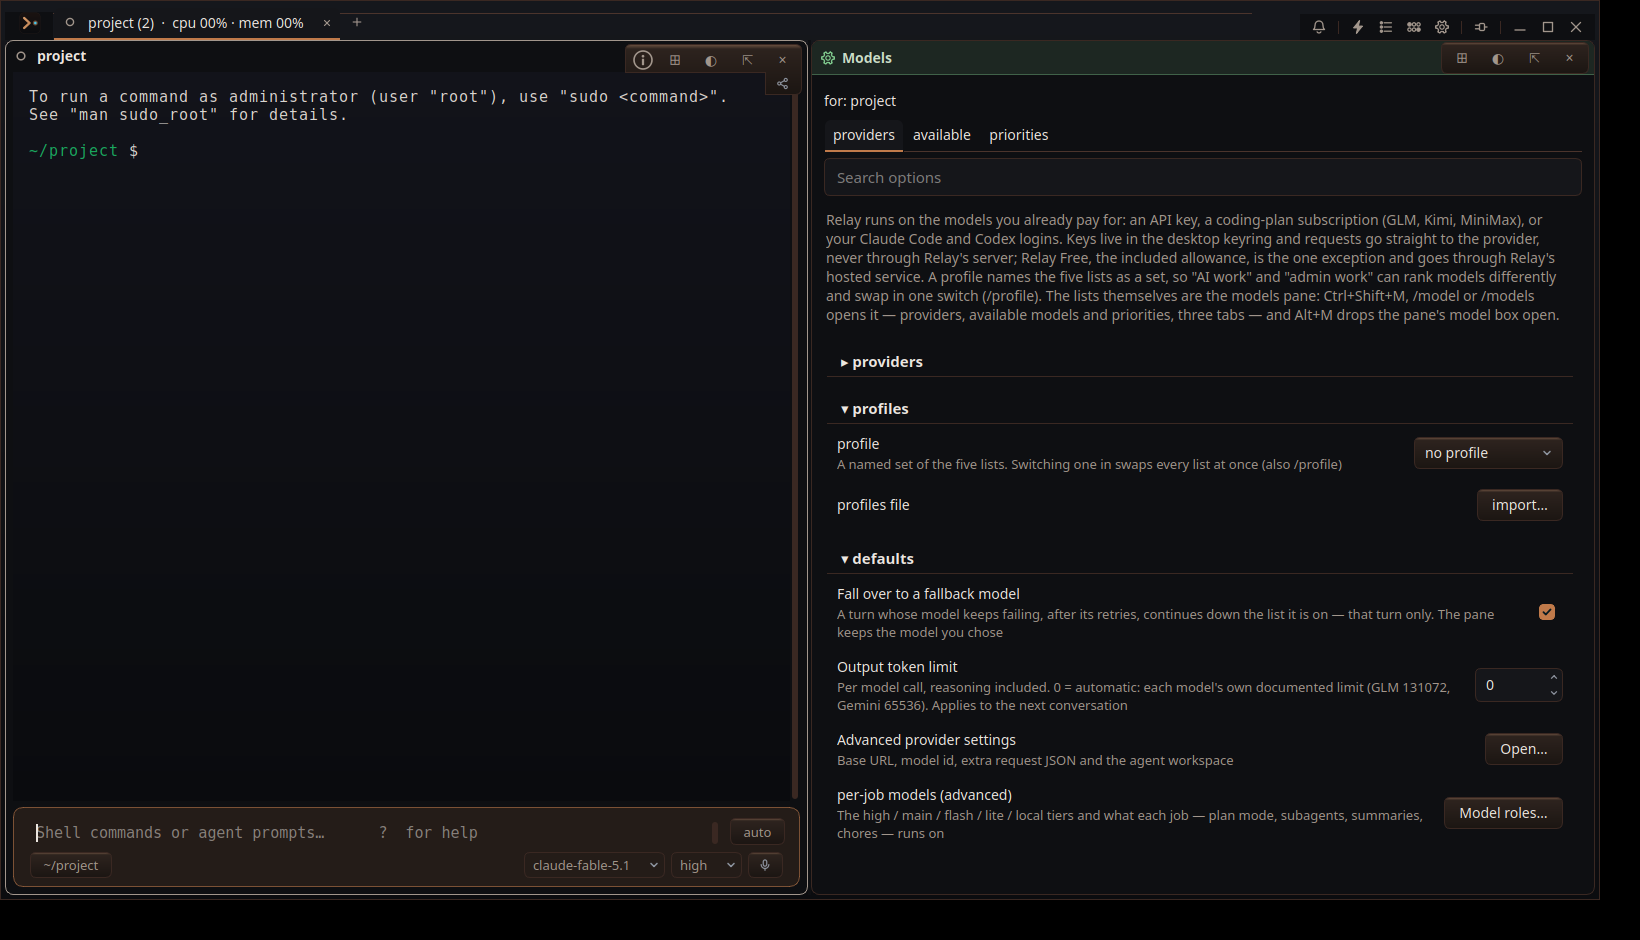
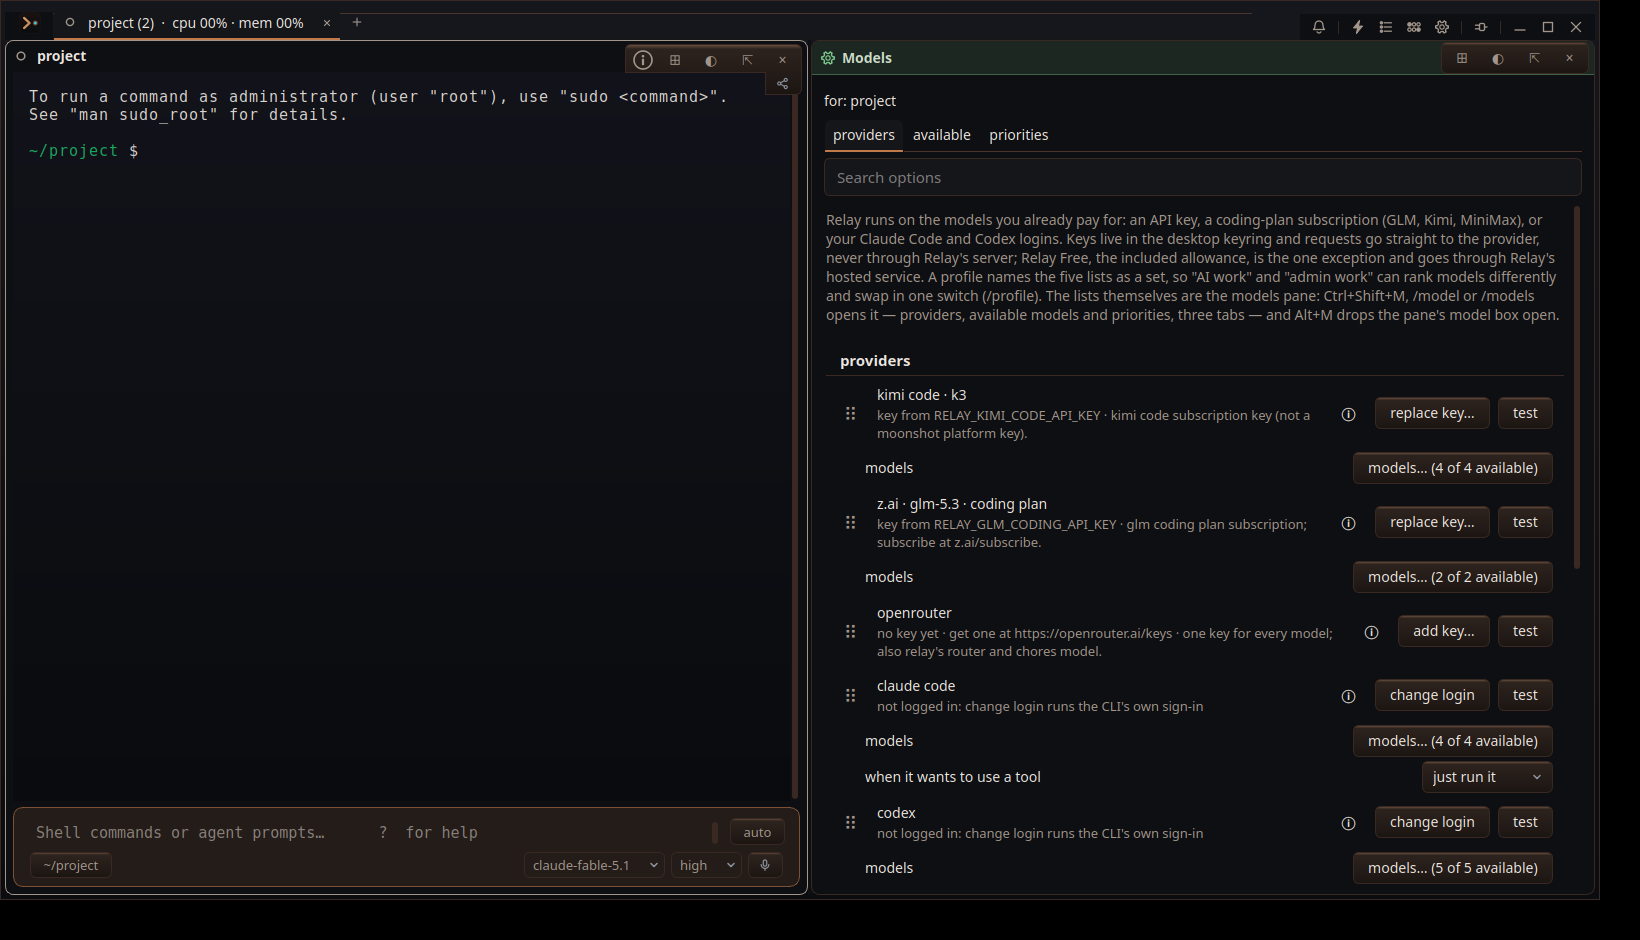
A saved models pane took its whole tab with it (#MDL1)
Driving the quit-and-reopen round trip the models pane's evidence was missing found a fault worse
than the one it was looking for. `relay::windowstate::isUsableNode` is the gate every saved node
passes on the way back, and it did not know `"models"`; an unknown node makes its whole **split**
unusable and the tab is dropped with it, so a tab holding a terminal beside a models pane came back
as **nothing** — Relay opened a bare window in the launch directory and the terminal's scrollback,
directory and conversation went with the tab. One line, and tests/windowstate_test.cpp asserts both
the node and the split that holds it.

Two more the same run found:

- **A restored pane had no "fill from defaults" buttons.** The picker makes them in its constructor
  from `Context::fillFromDefaults`, and a pane restored with a layout is pointed at a terminal
  whose worker has not answered `presets` yet, so the action was absent then and a later re-read
  does not rebuild the widget. `ModelsPane::setTarget` treats gaining or losing that action as a
  re-target now.
- **The providers group opened folded on the pane's providers tab**, so a first-run window showed
  the blurb, the profiles and the defaults and not the one thing step 1 is about. The fold is
  `options/collapsed/heading:providers` and defaults to folded once any provider is set up — right
  for the Options page, wrong for a tab whose whole subject is providers. In the pane the group is
[…]

Changed region(s): [[0.4976, 0.216, 0.964, 0.9564], [0.6841, 0.4936, 0.7463, 0.5245]]

diff --git a/src/RelayWindow.h b/src/RelayWindow.h
@@ -2484,15 +2484,22 @@ private:
         {
             // Folds by default once a provider is set up (owner, 2026-09-20): from then on the
             // page opens on the models, and the keys are one click away.
+            //
+            // **Not in the models pane** (card #MDL1 t:a11). There the providers rows are the whole
+            // of a tab called "providers", and a fold — remembered under the same
+            // `options/collapsed/heading:providers` key, so one set up on Options travelled here —
+            // left a first-run window showing the blurb, the profiles and the defaults and not the
+            // one thing step 1 is about. A first run opens on this tab precisely because there is a
+            // key to add, so the group is drawn open and has no fold control at all.
             relay::SettingRow head = headingRow(QStringLiteral("providers"));
-            head.collapsible = true;
+            head.collapsible = !inModelsPane;
             bool anySetUp = false;
             for (const auto &value : presets) {
                 const QJsonObject preset = value.toObject();
                 anySetUp = anySetUp || preset.value(QStringLiteral("has_stored_key")).toBool() || preset.value(QStringLiteral("custom")).toBool()
                     || (preset.value(QStringLiteral("harness")).toBool() && preset.value(QStringLiteral("logged_in")).toBool());
             }
-            head.collapsedByDefault = anySetUp;
+            head.collapsedByDefault = anySetUp && !inModelsPane;
             models.rows << head;
         }
         if (presets.isEmpty()) {

diff --git a/docs/qa_evidence/2026-09-21-models-pane/check-layout.py b/docs/qa_evidence/2026-09-21-models-pane/check-layout.py
@@ -1,0 +1,41 @@
+#!/usr/bin/env python3
+"""What the shots of the round trip cannot say on their own (card #MDL1 t:a11).
+
+Reads the layout Relay wrote at quit and asserts the three things the restore has to get right:
+there is exactly **one** models pane in it, it carries the **tab** it was left on, and it sits
+beside a **terminal pane** — which is the pane `RelayWindow::linkRestoredModelsPane` will serve,
+since nothing about the served pane is saved.
+"""
+import json
+import sys
+
+state = json.load(open(sys.argv[1], encoding="utf-8"))
+found = []
+
+
+def walk(node, siblings):
+    if "split" in node:
+        children = node.get("children", [])
+        for child in children:
+            walk(child, children)
+        return
+    for key in node:
+        if key == "models":
+            found.append((node["models"], sorted({k for s in siblings for k in s if k != "models"})))
+
+
+for window in state.get("windows", []):
+    for tab in window.get("tabs", []):
+        node = tab.get("node", tab)
+        walk(node, [node])
+
+print("models nodes in the saved layout:", len(found))
+for node, neighbours in found:
+    print("  node:   ", json.dumps(node, sort_keys=True))
+    print("  beside: ", neighbours)
+
+assert len(found) == 1, "expected exactly one models pane in the saved layout"
+node, neighbours = found[0]
+assert node.get("tab") == "available", f'the tab it was left on is not saved: {node.get("tab")!r}'
+assert "pane" in neighbours, "the models pane is not beside a terminal pane"
+print("OK: one models node, tab=available, beside a terminal pane")

diff --git a/src/ModelsPane.cpp b/src/ModelsPane.cpp
@@ -126,6 +126,7 @@ void ModelsPane::buildPicker() {
     };
     m_picker->onListsChanged = [this] { if (m_target.listsChanged) m_target.listsChanged(); };
     m_picker->openModelsPage = [this] { showTab(providersTab()); };
+    m_pickerHasFill = bool(m_target.fillFromDefaults);
     m_picker->setHosted(true);
     m_picker->installEventFilter(this);
     m_picker->filter()->installEventFilter(this);
@@ -135,7 +136,12 @@ void ModelsPane::buildPicker() {
 }
 
 void ModelsPane::setTarget(const Target &target) {
-    const bool samePane = m_picker && !target.token.isEmpty() && target.token == m_target.token;
+    // A re-read keeps the picker; a re-target rebuilds it. So does a target that has gained or
+    // lost "fill from defaults", because those two buttons exist only if the Context carried the
+    // action when the widget was made — a models pane restored with a layout is pointed at a pane
+    // whose worker has not answered `presets` yet, so it never had them until now.
+    const bool samePane = m_picker && !target.token.isEmpty() && target.token == m_target.token
+                          && bool(target.fillFromDefaults) == m_pickerHasFill;
     const QString wantTier = target.tier.isEmpty() ? m_classTab : target.tier;
     m_target = target;
     // The served pane's mode picks the class tab when it *becomes* the served pane; a re-read of

diff --git a/tests/modelspane_test.cpp b/tests/modelspane_test.cpp
@@ -240,6 +240,24 @@ private Q_SLOTS:
         QCOMPARE(pane.tier(), QStringLiteral("flash"));
     }
 
+    // "fill from defaults" is two buttons the picker makes in its constructor, so a target that
+    // gains the action has to rebuild it rather than re-read. A models pane restored with a saved
+    // layout is exactly that case: it is pointed at a pane whose worker has not answered yet.
+    void gainingFillFromDefaultsBringsItsButtons() {
+        Served served;
+        ModelsPane pane(providerSections());
+        ModelsPane::Target early = targetFor(&served);   // no worker answer yet: no action
+        pane.setTarget(early);
+        pane.showTab(ModelsPane::prioritiesTab());
+        QVERIFY(pane.picker()->defaultsButton(false) == nullptr);
+        ModelsPane::Target ready = targetFor(&served);
+        ready.fillFromDefaults = [](bool) { return true; };
+        pane.setTarget(ready);
+        QVERIFY(pane.picker()->defaultsButton(false) != nullptr);
+        QVERIFY(pane.picker()->defaultsButton(true) != nullptr);
+        QCOMPARE(pane.currentTab(), QStringLiteral("priorities"));
+    }
+
     // A pane's catalog arrives late: with no providers there is nothing to draw until the worker
     // answers `presets`, and a re-read of the same pane has to bring the new rows with it.
     void aLateCatalogReachesTheRowsWithoutLosingTheTab() {

diff --git a/tests/windowstate_test.cpp b/tests/windowstate_test.cpp
@@ -195,6 +195,14 @@ private slots:
         QVERIFY(isUsableNode(QJsonObject{{"testsuites", QJsonObject{{"cwd", "/repo"}}}}));
         QVERIFY(isUsableNode(QJsonObject{{"testsuites", QJsonObject{}}}));
         QVERIFY(!isUsableNode(QJsonObject{{"testsuites", "/repo"}}));
+        // The models pane (card #MDL1 t:a11). It is listed here for more than itself: an unknown
+        // node makes its whole split unusable, so a tab holding a terminal *and* a models pane was
+        // dropped entirely — the driven quit-and-reopen came back with neither.
+        QVERIFY(isUsableNode(QJsonObject{{"models", QJsonObject{{"cwd", "/repo"}, {"tab", "available"}}}}));
+        QVERIFY(isUsableNode(QJsonObject{{"models", QJsonObject{}}}));
+        QVERIFY(!isUsableNode(QJsonObject{{"models", "available"}}));
+        QVERIFY(isUsableNode(split(QStringLiteral("h"), QJsonArray{pane(QStringLiteral("/repo")),
+                                                                   QJsonObject{{"models", QJsonObject{{"cwd", "/repo"}}}}})));
         QVERIFY(!isUsableNode(QJsonObject{}));
         QVERIFY(!isUsableNode(QJsonObject{{"subagent", QJsonObject{}}}));
         QVERIFY(!isUsableNode(QJsonObject{{"explorer", QJsonObject{}}}));   // no path

diff --git a/src/WindowState.cpp b/src/WindowState.cpp
@@ -177,6 +177,12 @@ bool isUsableNode(const QJsonObject &node, int depth) {
     // The Test suites pane (card #7BM4) restores empty and asks its tab's board worker for the
     // inventory again, so the object may hold nothing but the project it was opened on.
     if (node.contains(QStringLiteral("testsuites"))) return node.value(QStringLiteral("testsuites")).isObject();
+    // The models pane (card #MDL1 t:a11): the object holds the directory and the tab it was left
+    // on, and it comes back serving the first terminal pane of its tab, so there is nothing in it
+    // that can go stale. A node listed here is not merely *restorable* — a node this function does
+    // not know makes its whole **split** unusable, and with it the tab: a driven quit-and-reopen
+    // came back with no models pane *and no terminal*, because the pair was one split.
+    if (node.contains(QStringLiteral("models"))) return node.value(QStringLiteral("models")).isObject();
     // A subagent pane (card #WD83) comes back with its tabs' text; one with no tabs is not saved.
     if (node.contains(QStringLiteral("subagents"))) {
         const QJsonObject subagents = node.value(QStringLiteral("subagents")).toObject();

diff --git a/src/ModelsPane.h b/src/ModelsPane.h
@@ -135,6 +135,11 @@ private:
     // whatever the person last looked at, so available → priorities does not throw the tab away.
     QString m_classTab = QStringLiteral("main");
     QString m_pendingFilter;
+    // Whether the picker on screen was built with a "fill from defaults" action. The two buttons
+    // are made in its constructor, so a target that gains the action — a restored pane, whose
+    // worker had not answered `presets` when it was first pointed at a pane — needs a rebuild and
+    // not a re-read (card #MDL1 t:a11).
+    bool m_pickerHasFill = false;
 };
 
 }  // namespace relay

diff --git a/docs/qa_evidence/2026-09-21-models-pane/NOTES.md b/docs/qa_evidence/2026-09-21-models-pane/NOTES.md
@@ -24,10 +24,17 @@ condition the window reads.
 | `i2-row-opens-priorities-on-main.png` | That row pressed: the models pane goes to **priorities on main** — not to the mode the pane is in, because a page is in no mode. |
 | `i1-provider-models-link.png` | Back in Options, "available models" typed: the per-provider **models… (N of M available)** links, one under each provider. |
 | `j-link-lands-on-available.png` | One pressed: the models pane's **available** tab, filtered to that provider (`kimi`), which is how step 2 is reached from step 1. |
+| `k-before-quit.png` | **Run 2 begins.** Options closed, the models pane left on **available**, and Relay asked to quit with SIGTERM — which is what writes the layout. |
+| `l-after-restart.png` | Relay started again **with no arguments at all** (`--workspace` is what suppresses "reopen where I left off", so run 1 has it and run 2 must not): the tab is back with its terminal — scrollback and all — *and* the models pane, on the same **available** tab, `for: project` in its header, the served pane's `glm-5.3` bold and marked `· current`, and "fill from defaults" present. |
+| `m0-restored-row-highlighted.png`, `m-restored-row-switches-the-pane.png` | `claude-haiku-4.5` used in the restored pane: the **terminal** pane's chip goes from `glm-5.3` to `claude-haiku-4.5`. Nothing in the layout says which pane it serves, so this is the proof that `linkRestoredModelsPane` found it. |
+
+`saved-layout.json` is the file Relay wrote at quit and `saved-layout-check.txt` is
+`check-layout.py` run over it — the three assertions the shots cannot make: exactly **one** models
+node, carrying `tab: available`, and **beside a terminal pane**.
 
 ## What the runs changed in the code
 
-Three faults this evidence found, each fixed before the shots above were taken:
+Seven faults this evidence found, each fixed before the shots above were taken:
 
 1. **Ctrl+Tab did nothing.** The first run pressed it three times to walk the three tabs and stayed
    on the same one: Ctrl+Tab is the window's **Next tab** (Keymap `tab.next`) and never reaches a
@@ -40,15 +47,32 @@ Three faults this evidence found, each fixed before the shots above were taken:
    `intelligence` and `tok/s` columns — what the sort menu sorts by, not what is read while
    picking, and both are in every cell's tooltip. `e-available.png` is the run after.
 
-A fourth was caught by the first-run shot rather than by a key: the pane was built before its
+4. **A quit and reopen came back with no models pane — and no terminal either.** `isUsableNode`
+   (`src/WindowState.cpp`) is the gate every saved node passes, and it did not know `"models"`. An
+   unknown node makes its whole **split** unusable and the tab is dropped with it, so the pair this
+   card is about vanished and Relay opened a bare window in the launch directory instead. One line
+   added, and `tests/windowstate_test.cpp` now asserts the node and the split that holds it.
+5. **A restored pane had no "fill from defaults" buttons.** They are made in the picker's
+   constructor from `Context::fillFromDefaults`, and a pane restored with a layout is pointed at a
+   terminal whose worker has not answered `presets` yet, so the action was absent then and a later
+   re-read does not rebuild the widget. `ModelsPane::setTarget` now treats gaining or losing that
+   action as a re-target.
+
+A sixth was caught by the first-run shot rather than by a key: the pane was built before its
 worker had answered `presets`, so it had **no catalog at all** and `rebuild()` redrew the rows from
 the one it was built with. `ModelPicker::setCatalog` is what a re-read calls now, and
 `RelayWindow::refreshModelsPane` is wired to `SettingsWatch`, which both a `presets` answer and a
 key added on the providers tab already fire.
 
+…and a seventh came out of `a-first-run.png`: on the providers tab the **providers group was
+folded**, so a first-run window showed the blurb, the profiles and the defaults and not the one
+thing step 1 is about. The fold is remembered under `options/collapsed/heading:providers` and
+defaults to folded once any provider is set up — sensible on the Options page, wrong on a tab whose
+whole subject is providers. In the pane the group is drawn open and has no fold control at all
+(`modelsSection(inModelsPane)`); Options is unchanged.
+
 ## Not covered here
 
-The **restored** models pane (`{"models": {"cwd", "tab"}}` in a saved layout) is exercised by the
-first-run path — that layout node is built by `WindowManager::newWindowAt` and read by the same
-`buildNode` branch a saved one takes — but not by a quit-and-reopen round trip, which needs a
-second Relay start against the same profile.
+Two Relay windows at once, and a models pane in a tab that is *not* the first — `usableWindows`
+keeps every window and `linkRestoredModelsPane` walks the page it landed in, so neither is
+suspected, but neither is driven.

diff --git a/issues/threads/MDL1.md b/issues/threads/MDL1.md
@@ -730,3 +730,35 @@ t:a11 is the last of the eleven tasks and it is ticked, but the card's `status` 
 `executing`: two other sessions are live on this card (t:a8's model box and t:a9's ranking file),
 so whether #MDL1 as a whole is ready for verification is not mine to say.
 
+<!-- relay:entry 20260921T230500Z-h3 author=claude-fable kind=evidence -->
+### Claude Fable · 2026-09-21 23:05
+**The quit-and-reopen round trip, driven — and the two faults it found.** `drive.sh` in
+`docs/qa_evidence/2026-09-21-models-pane/` has a **run 2** now: the models pane is left on the
+**available** tab, Relay is asked to quit with SIGTERM (which writes the layout), and it is started
+again **with no arguments at all**, because `--workspace` is what suppresses "reopen where I left
+off". `check-layout.py` makes the three assertions the shots cannot — one models node in the saved
+file, carrying the tab it was left on, beside a terminal pane — and `k-before-quit.png`,
+`l-after-restart.png` and `m-restored-row-switches-the-pane.png` are the before, the after and the
+proof that the restored pane is serving the terminal beside it (Enter on `claude-haiku-4.5` moves
+*that pane's* chip off `glm-5.3`).
+
+It did not work the first time, and the failure was worse than a missing pane: **the whole tab was
+dropped**. `relay::windowstate::isUsableNode` is the gate every saved node passes and it did not
+know `"models"`; an unknown node makes its whole *split* unusable, so the terminal went with it and
+Relay opened a bare window in the launch directory. One line in `src/WindowState.cpp`, and
+`tests/windowstate_test.cpp` asserts the node and the split that holds it. The second fault: a
+**restored pane had no "fill from defaults" buttons**, because the picker makes them in its
+constructor and a restored pane is pointed at a terminal whose worker has not answered `presets`
+yet — `ModelsPane::setTarget` treats gaining or losing that action as a re-target now
+(`gainingFillFromDefaultsBringsItsButtons`).
+
+**Also from the shots:** on the providers tab the **providers group opened folded**, so a first-run
+window showed the blurb, the profiles and the defaults and not the one thing step 1 is about. The
+fold lives under `options/collapsed/heading:providers` and defaults to folded once any provider is
+set up — right for the Options page, wrong for a tab whose whole subject is providers. In the pane
+the group is drawn open and has no fold control (`modelsSection(inModelsPane)`); Options is
+unchanged. `a-first-run.png` is re-shot.
+
+`ctest -R "modelspane|modelpicker|modelcatalog|modelrows|settings|filterpopup|panestate|windowstate"`
+is 11/11, with `modelspane` at 16 cases.
+
